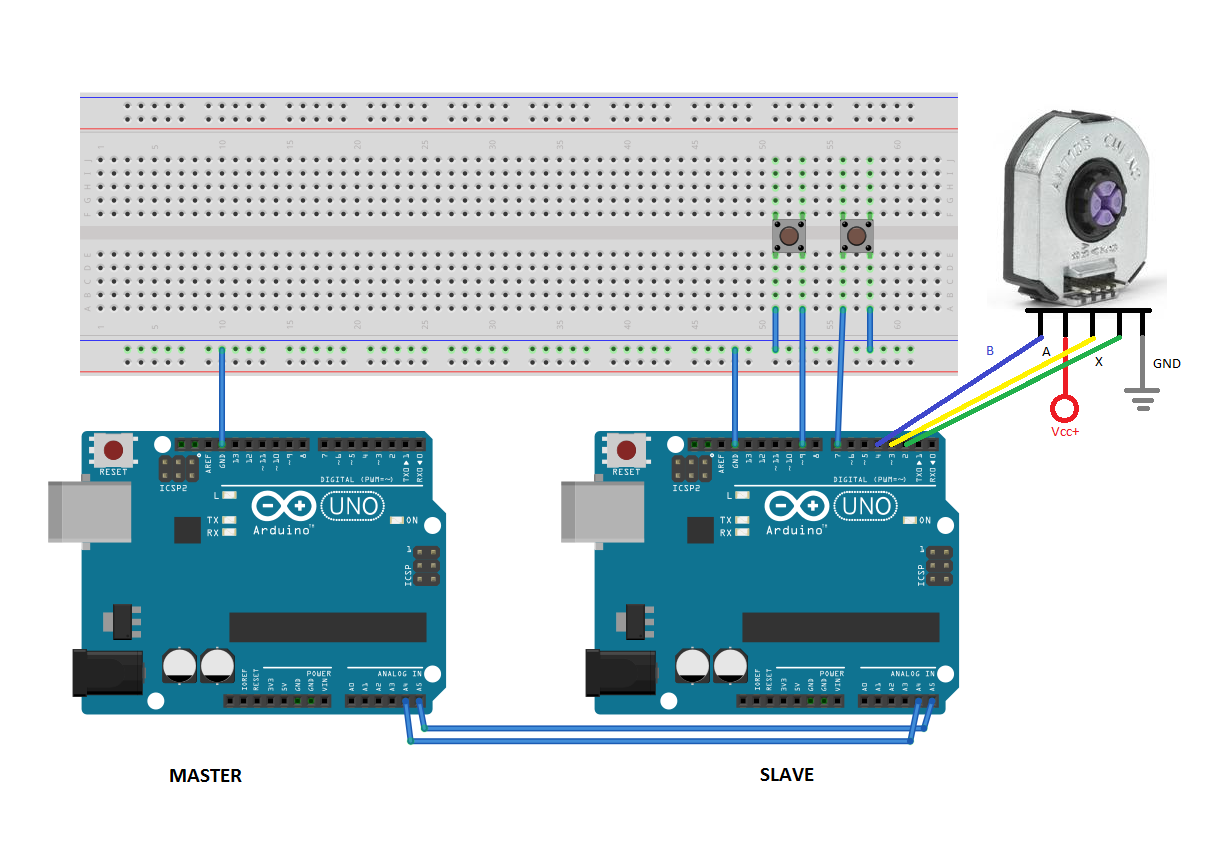
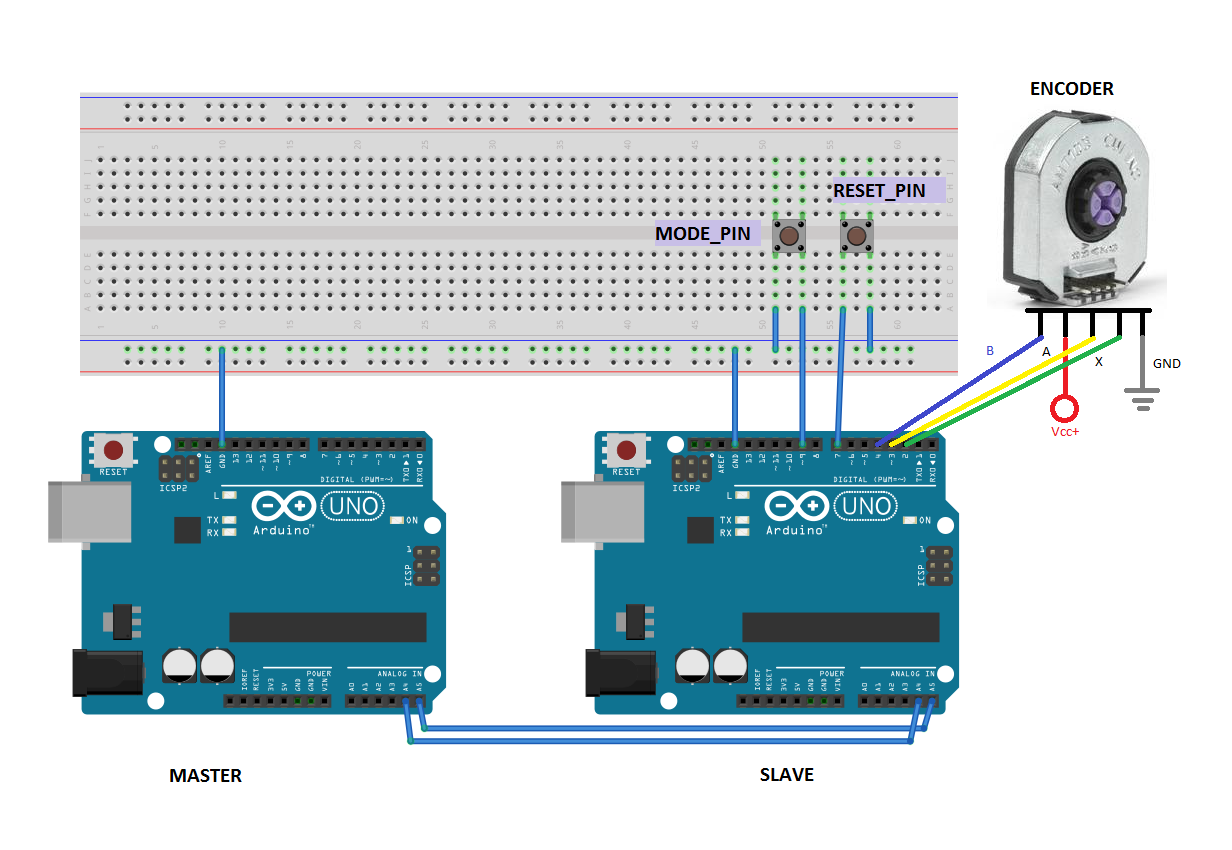
modified the image, README and README_ita

Changed region(s): [[0.6786, 0.1835, 0.7711, 0.2447], [0.5244, 0.2447, 0.6169, 0.3059], [0.8328, 0.0918, 0.9253, 0.1224]]

diff --git a/README_ita.md b/README_ita.md
@@ -18,8 +18,9 @@ Lo scopo del programma è di connettere due o più schede arduino e farle comuni
 ###COLLEGAMENTI:
 
 * connettere il pin SCL dello Slave a quello del master e allo stesso modo connettere il pin SDA dello Slave a quello del Master;
+* connettere la massa dello Slave con quella del Master;
 * attaccare i pulsanti alla breadboard;
-* connettere il/gli encoder allo Slave;
+* connettere il/gli encoder allo Slave.
 
 ![Alt text](https://github.com/DavideDorigoni/arduino-encoder-board/blob/master/electrical_connections.png?raw=true)
 
@@ -111,7 +112,7 @@ EncoderSlave::EncoderSlave(){
 }
 ```
 
-* **set(int reset_pin,int mode_pin):** imposta la resistenza di pullup sui due pin e imposta gli encoders con i valori che trova nella struct settings_t. In più, i valori come l'angolo sono impostati a 0;
+* **set(int reset_pin,int mode_pin):** imposta la resistenza di pullup sui due pin e imposta gli encoders con i valori che trova nella struct settings_t. In più, i valori come l'angolo sono impostati a 0.
 
 ```c++
 void EncoderSlave::set(int reset_pin, int mode_pin) {
@@ -128,16 +129,16 @@ void EncoderSlave::set(int reset_pin, int mode_pin) {
 }
 ```
 
-* **save_to_EEPROM():** salva le impostazioni della EEPROM;
+* **save_to_EEPROM():** salva le impostazioni della EEPROM.
 
 
-* **read_from_EEPROM():** estrapola i valori dalla EEPROM;
+* **read_from_EEPROM():** estrapola i valori dalla EEPROM.
 
 
-* **default_settings():** imposta i valori di default;
+* **default_settings():** imposta i valori di default.
 
 
-* **read(int res_mult, int com_mult):** legge i valori da ogni encoders. la prima costante indica il valore di moltiplicazione che l'encoder ha(impulsi in un giro / risoluzione), mentre la seconda è il motiplicatore che viene usato per facilitare la comunicazione;
+* **read(int res_mult, int com_mult):** legge i valori da ogni encoders. la prima costante indica il valore di moltiplicazione che l'encoder ha(impulsi in un giro / risoluzione), mentre la seconda è il motiplicatore che viene usato per facilitare la comunicazione.
 
 ```c++
 void EncoderSlave::read(int res_mult, int com_mult) {  
@@ -147,7 +148,7 @@ void EncoderSlave::read(int res_mult, int com_mult) {
 }
 ```
 
-* **info():** mostra lo stato delle impostazioni sul monitor;
+* **info():** mostra lo stato delle impostazioni sul monitor.
 
 
 

diff --git a/readme.md b/readme.md
@@ -18,8 +18,9 @@ The purpose of the program is to connect two Arduino boards thanks to I2C connec
 ###CONNECTIONS:
 
 * connect the Slave's SCL pin with the Master's SCL pin and the Slave's SDA pin with the Master's SDA pin;
+* connect the Slave's ground to the Master's ground;
 * attach the button on the breadboard;
-* connect the encoder/s to the Slave board;
+* connect the encoder/s to the Slave board.
 
 ![Alt text](https://github.com/DavideDorigoni/arduino-encoder-board/blob/master/electrical_connections.png?raw=true)
 
@@ -137,7 +138,7 @@ void EncoderSlave::set(int reset_pin, int mode_pin) {
 * **default_settings():** it sets the default settings
 
 
-* **read(int res_mult, int com_mult):** it reads the value from every encoder. The first constant typed in read function, is the resolution multiplier (number of impulse for round / resolution), while the second constant is the comunication multiplier.
+* **read(int res_mult, int com_mult):** it reads the value from every encoder. The first constant typed in read function, is the resolution multiplier (number of pulses for round / resolution), while the second constant is the comunication multiplier.
 
 ```c++
 void EncoderSlave::read(int res_mult, int com_mult) {  
